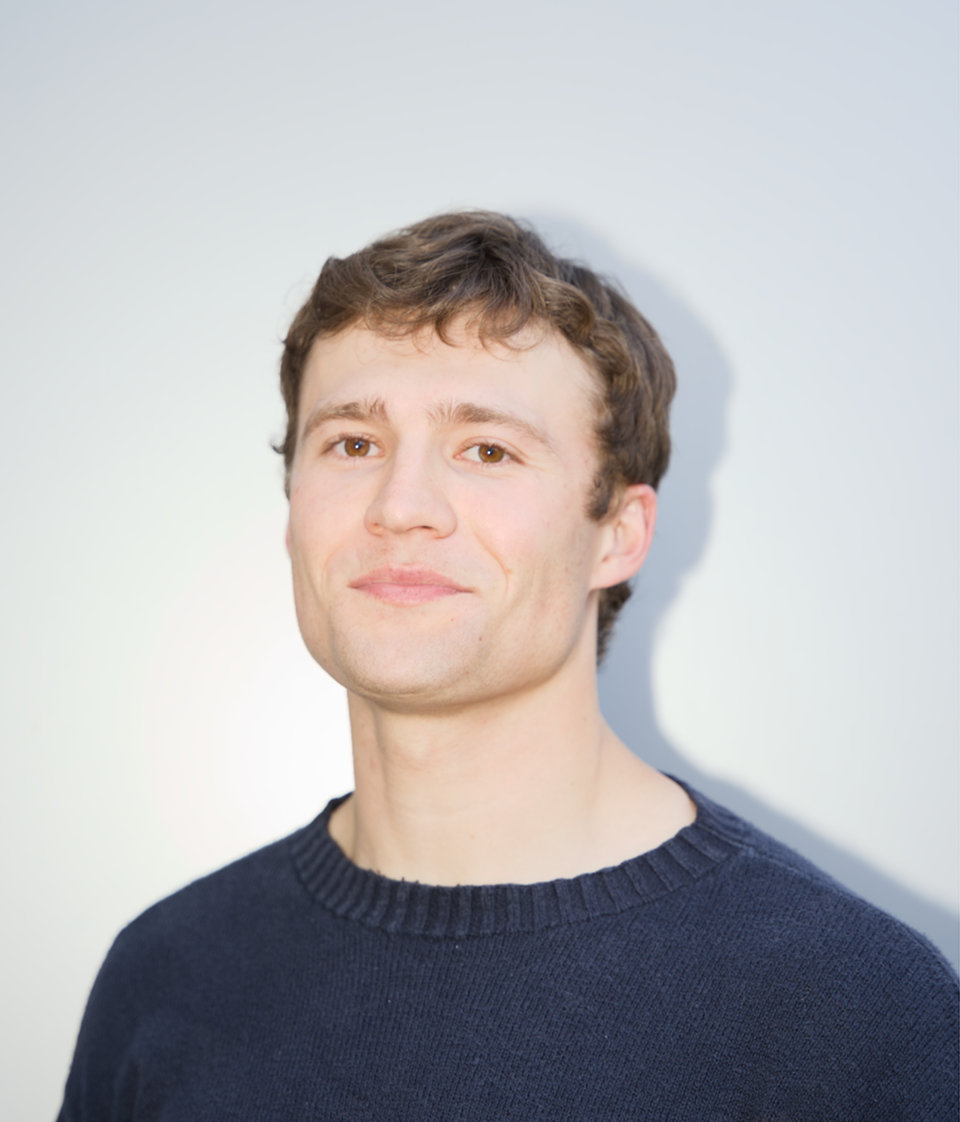
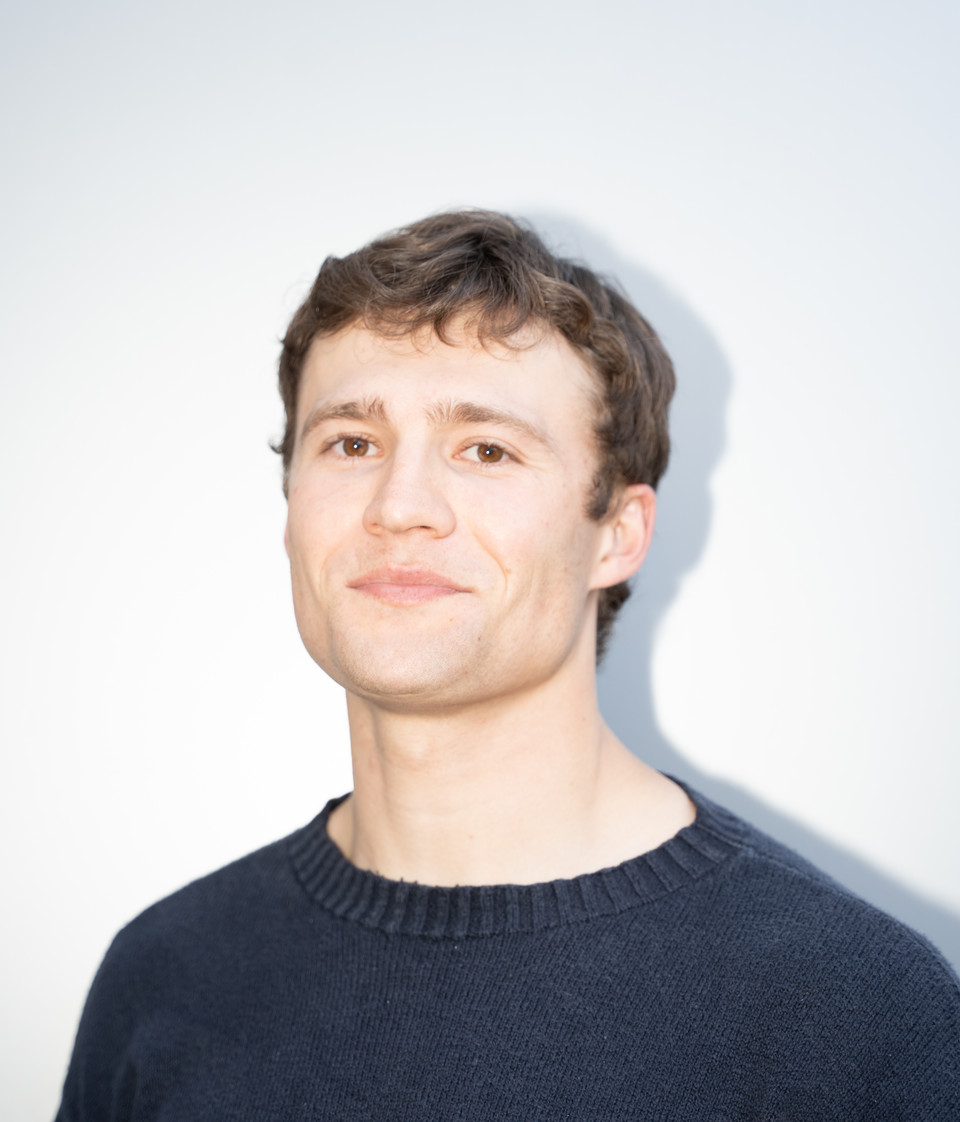
Update the homepage portrait to the new headshot.
Crop and resize the replacement photo to the previous 960 by 1122 frame so the home portrait stays the same size.

diff --git a/index.html b/index.html
@@ -154,7 +154,7 @@
 
                     <div class="home-photo">
                         <figure class="home-portrait">
-                            <img src="Homepage/home-portrait.jpg?v=new-headshot-1" alt="Bryce Parsons" loading="eager" decoding="async">
+                            <img src="Homepage/home-portrait.jpg?v=home-portrait-2" alt="Bryce Parsons" loading="eager" decoding="async">
                         </figure>
 
                         <span class="home-dots" aria-hidden="true">
